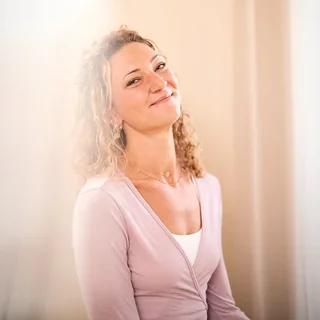
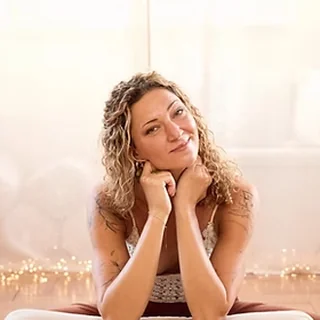
Rundes Bild auf der Yoga-Karte: Nina beim Yoga (ablegen-host-yoga)
Quelle: Nina_Yoga.avif aus dem Drive-Ordner Website-Fotos

Claude-Session: https://claude.ai/code/session_01S7jktvVxKvDmHaxzH7P6eu

diff --git a/ablegen.html b/ablegen.html
@@ -128,7 +128,7 @@
             <p class="fits">Passt zu dir, wenn du gern in Bewegung bist und über den Körper zur Ruhe kommst.</p>
             <a class="btn btn-line" href="#bewerben" data-variante="Yoga und Körperarbeit">Mit diesem Schwerpunkt bewerben</a>
             <div class="host">
-              <figure class="bild r-1x1 mini" data-bild="ablegen-host-yoga"><img src="img/ablegen-host-yoga.webp" alt="Porträt von Nina, Co-Leitung Yoga &amp; Körperarbeit" width="320" height="320" loading="lazy"></figure>
+              <figure class="bild r-1x1 mini" data-bild="ablegen-host-yoga"><img src="img/ablegen-host-yoga.webp" alt="Nina beim Yoga, lächelnd auf der Matte" width="320" height="320" loading="lazy"></figure>
               <div><strong>Nina</strong><span>Yogalehrerin und Yogatherapeutin · <a class="more" href="wer-begleitet.html#yoga">Mehr über sie</a></span></div>
             </div>
           </div>
